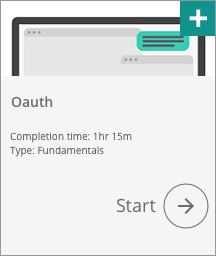
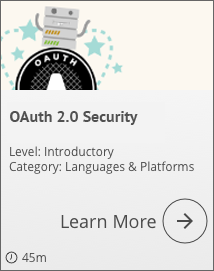
New tiles

diff --git a/jackslearn/index.html b/jackslearn/index.html
@@ -63,21 +63,21 @@
         <div class="tileHeader">Our Most Popular Courses</div>
         <div class="tileContainer">
         <ul style="padding-left:0;margin-top:0;margin-bottom:0">
-        <li style="width:216px;height:256px;list-style-type: none" id="tile"></li>
-        <li style="width:216px;height:256px; list-style-type: none" id="tile2"></li>
-        <li style="width:216px;height:256px; list-style-type: none" id="tile3"></li>
-        <li style="width:216px;height:256px; list-style-type: none" id="tile4"></li>
-        <li style="width:216px;height:256px; list-style-type: none" id="tile5"></li>
+        <li style="width:214px;height:271px;list-style-type: none" id="tile"></li>
+        <li style="width:214px;height:271px; list-style-type: none" id="tile2"></li>
+        <li style="width:214px;height:271px; list-style-type: none" id="tile3"></li>
+        <li style="width:214px;height:271px; list-style-type: none" id="tile4"></li>
+        <li style="width:214px;height:271px; list-style-type: none" id="tile5"></li>
         </ul>
         </div>
         <div class="tileHeader">Our Highest Rated Courses</div>
         <div class="tileContainer">
         <ul style="padding-left:0;margin-top:0;margin-bottom:0">
-        <li style="width:216px;height:256px; list-style-type: none" id="tile6"></li>
-        <li style="width:216px;height:256px; list-style-type: none" id="tile7"></li>
-        <li style="width:216px;height:256px; list-style-type: none" id="tile8"></li>
-        <li style="width:216px;height:256px; list-style-type: none" id="tile9"></li>
-        <li style="width:216px;height:256px; list-style-type: none" id="tile10"></li>
+        <li style="width:214px;height:271px; list-style-type: none" id="tile6"></li>
+        <li style="width:214px;height:271px; list-style-type: none" id="tile7"></li>
+        <li style="width:214px;height:271px; list-style-type: none" id="tile8"></li>
+        <li style="width:214px;height:271px; list-style-type: none" id="tile9"></li>
+        <li style="width:214px;height:271px; list-style-type: none" id="tile10"></li>
         </ul>
         </div>
 

diff --git a/jackslearn/css/jackslearn.css b/jackslearn/css/jackslearn.css
@@ -182,7 +182,7 @@ float: left;
 
 .tileHeader {
 font-family: 'Montserrat';
-font-size: 48px;
+font-size: 36px;
 font-weight: 600;
 color: #10938c;
 margin-bottom: 15px;
